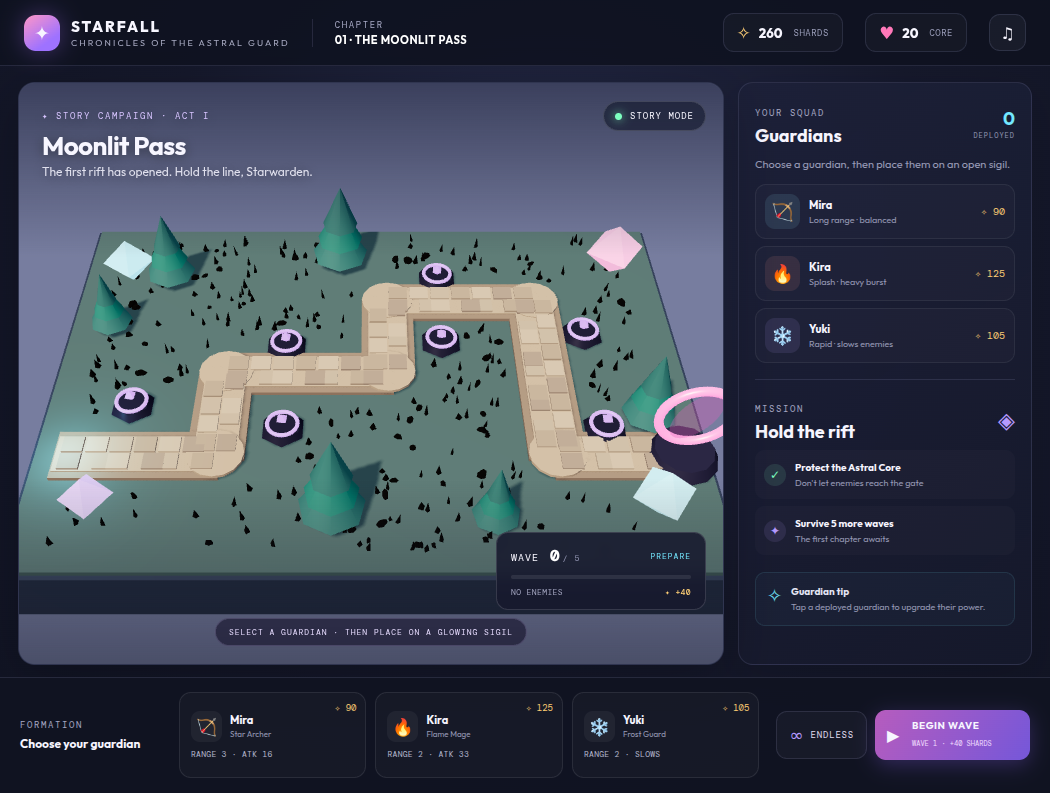
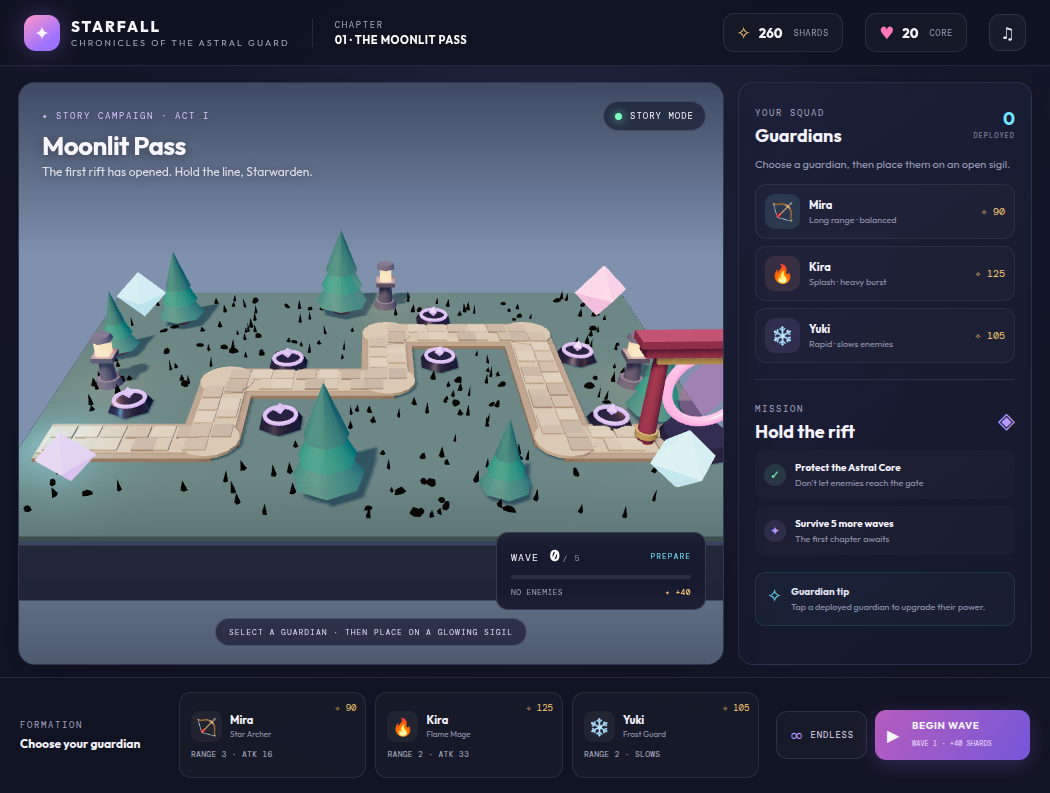
Publish static build for issue #3
Run: 41889467741
Attempt: 1
Generation: 10
Source: f91ac35d136565e8fe7699fcf8f47a618d134674

Changed region(s): [[0.0, 0.2421, 0.701, 0.7869], [0.6705, 0.6658, 0.701, 0.7264]]

diff --git a/game.js b/game.js
@@ -4,10 +4,10 @@ const units=[{id:'mira',name:'Mira',role:'Star Archer',emoji:'🏹',cost:90,colo
 const stages=[{name:'Moonlit Pass',desc:'The first rift has opened. Hold the line, Starwarden.',chapter:'01 · THE MOONLIT PASS'},{name:'Sakura Crossing',desc:'A crimson tide spills through the shrine gates.',chapter:'02 · SAKURA CROSSING'},{name:'Celestial Ruins',desc:'Ancient stars awaken beneath the broken spires.',chapter:'03 · CELESTIAL RUINS'}];
 const route=[[0,5.6],[2.5,5.6],[2.5,3.8],[5.3,3.8],[5.3,2],[8,2],[8,5.6],[10,5.6]], slots=[[1,4.55],[3.55,5.05],[3.5,3.15],[6.25,3.05],[6.25,1.35],[8.8,2.85],[8.85,5.05]];
 const state={gold:260,lives:20,stage:0,wave:0,mode:'story',selected:null,towers:[],enemies:[],shots:[],particles:[],running:false,spawn:0,toSpawn:0,spawnTimer:0,elapsed:0,speed:1,gameOver:false};
-const scene=new THREE.Scene();scene.background=new THREE.Color('#777d9f');scene.fog=new THREE.Fog('#777d9f',19,38);
-const camera=new THREE.PerspectiveCamera(34,1,.1,100);camera.position.set(5,12.2,15);camera.lookAt(5,.1,3.8);
-const renderer=new THREE.WebGLRenderer({canvas,antialias:true,alpha:false,powerPreference:'high-performance'});renderer.setPixelRatio(Math.min(devicePixelRatio||1,1.7));renderer.shadowMap.enabled=true;renderer.shadowMap.type=THREE.PCFSoftShadowMap;renderer.outputColorSpace=THREE.SRGBColorSpace;renderer.toneMapping=THREE.ACESFilmicToneMapping;renderer.toneMappingExposure=1.15;
-scene.add(new THREE.HemisphereLight('#dceaff','#4c426d',1.65));const sun=new THREE.DirectionalLight('#fff0d6',2.5);sun.position.set(-5,12,7);sun.castShadow=true;sun.shadow.mapSize.set(1024,1024);sun.shadow.camera.left=-12;sun.shadow.camera.right=12;sun.shadow.camera.top=12;sun.shadow.camera.bottom=-12;scene.add(sun);
+const scene=new THREE.Scene();scene.background=new THREE.Color('#7f91ad');scene.fog=new THREE.Fog('#7f91ad',27,58);
+const camera=new THREE.PerspectiveCamera(39,1,.1,120);camera.position.set(5,10,19);camera.lookAt(5,.15,3.8);
+const renderer=new THREE.WebGLRenderer({canvas,antialias:true,alpha:false,powerPreference:'high-performance'});renderer.setPixelRatio(Math.min(devicePixelRatio||1,1.7));renderer.shadowMap.enabled=true;renderer.shadowMap.type=THREE.PCFSoftShadowMap;renderer.outputColorSpace=THREE.SRGBColorSpace;renderer.toneMapping=THREE.ACESFilmicToneMapping;renderer.toneMappingExposure=1.2;
+scene.add(new THREE.HemisphereLight('#d9e8ff','#344252',1.9));const sun=new THREE.DirectionalLight('#ffe3c3',2.8);sun.position.set(-5,12,7);sun.castShadow=true;sun.shadow.mapSize.set(1024,1024);sun.shadow.camera.left=-12;sun.shadow.camera.right=12;sun.shadow.camera.top=12;sun.shadow.camera.bottom=-12;scene.add(sun);const moonFill=new THREE.DirectionalLight('#9bbdff',.65);moonFill.position.set(11,7,-5);scene.add(moonFill);
 const mat=(color,roughness=.65,metalness=0,emissive=null)=>new THREE.MeshStandardMaterial({color,roughness,metalness,emissive:emissive||'#000000',emissiveIntensity:emissive?1.5:0});
 const mats={grass:mat('#536b69'),edge:mat('#384358'),road:mat('#9a836f'),road2:mat('#c5a98b'),gold:mat('#ffd985',.3,.55),white:mat('#fff4df'),dark:mat('#302d48'),leaf:mat('#4b9b89'),pink:mat('#fa85c0',.32,.1,'#ec499e'),cyan:mat('#74eaff',.28,.2,'#38dfff'),violet:mat('#b89aff',.3,.2,'#9b69ff')};
 const ground=new THREE.Mesh(new THREE.BoxGeometry(11,1,8),mats.edge);ground.position.set(5,-.52,3.8);ground.receiveShadow=true;scene.add(ground);
@@ -26,13 +26,17 @@ function tree(x,z,s=1){const g=new THREE.Group();cylinder(.13*s,.2*s,.55*s,mat('
 // Fine ground cover breaks up the board's toy-like flatness without taxing mobile GPUs.
 function routeGap(x,z){let best=99;for(let i=1;i<route.length;i++){const a=route[i-1],b=route[i],dx=b[0]-a[0],dz=b[1]-a[1],t=Math.max(0,Math.min(1,((x-a[0])*dx+(z-a[1])*dz)/(dx*dx+dz*dz)));best=Math.min(best,Math.hypot(x-a[0]-t*dx,z-a[1]-t*dz))}return best}
 let seed=741;const seeded=()=>{seed=(seed*1664525+1013904223)>>>0;return seed/4294967296};
-const grassGeo=new THREE.ConeGeometry(.045,.2,4),grassMat=new THREE.MeshStandardMaterial({color:'#fff',roughness:1,vertexColors:true});const grassCount=230,grass=new THREE.InstancedMesh(grassGeo,grassMat,grassCount),dummy=new THREE.Object3D(),bladeColors=['#718b68','#87966d','#a0a076','#617f72'];let placed=0,tries=0;
+const grassGeo=new THREE.ConeGeometry(.04,.16,4),grassMat=new THREE.MeshStandardMaterial({color:'#fff',roughness:1,vertexColors:true});const grassCount=150,grass=new THREE.InstancedMesh(grassGeo,grassMat,grassCount),dummy=new THREE.Object3D(),bladeColors=['#91aa7f','#a8b28a','#c1bb92','#7fa69a'];let placed=0,tries=0;
 while(placed<grassCount&&tries++<grassCount*12){const x=.15+seeded()*9.7,z=.15+seeded()*7.2;if(routeGap(x,z)<.69||slots.some(([sx,sz])=>Math.hypot(x-sx,z-sz)<.48))continue;dummy.position.set(x,.16,z);dummy.rotation.set(0,seeded()*Math.PI,seeded()*.18);dummy.scale.set(.65+seeded()*.8,.5+seeded()*1.1,.65+seeded()*.8);dummy.updateMatrix();grass.setMatrixAt(placed,dummy.matrix);grass.setColorAt(placed,new THREE.Color(bladeColors[Math.floor(seeded()*bladeColors.length)]));placed++}grass.count=placed;grass.instanceMatrix.needsUpdate=true;grass.castShadow=false;scene.add(grass);
 const pebbleGeo=new THREE.DodecahedronGeometry(.09,0),pebbleMat=new THREE.MeshStandardMaterial({color:'#fff',roughness:1,vertexColors:true}),pebbles=new THREE.InstancedMesh(pebbleGeo,pebbleMat,54),pebbleColors=['#777c78','#9b9080','#666e70'];for(let i=0;i<54;i++){let x,z;do{x=.2+seeded()*9.6;z=.2+seeded()*7.1}while(routeGap(x,z)<.69||slots.some(([sx,sz])=>Math.hypot(x-sx,z-sz)<.5));dummy.position.set(x,.075,z);dummy.rotation.set(seeded(),seeded()*Math.PI,seeded());dummy.scale.set(.4+seeded()*.9,.2+seeded()*.45,.45+seeded()*.8);dummy.updateMatrix();pebbles.setMatrixAt(i,dummy.matrix);pebbles.setColorAt(i,new THREE.Color(pebbleColors[i%3]))}pebbles.castShadow=false;scene.add(pebbles);
-// A luminous shrine frames the exit portal.
+// A luminous torii shrine frames the exit portal and gives the route a clear landmark.
 const gate=new THREE.Group();gate.position.set(10,.12,5.6);scene.add(gate);const gateMat=new THREE.MeshStandardMaterial({color:'#ff9ccf',emissive:'#ff3b9c',emissiveIntensity:2,metalness:.5,roughness:.22});
-const ring=new THREE.Mesh(new THREE.TorusGeometry(.58,.075,10,36),gateMat);ring.position.y=.95;gate.add(ring);const portal=new THREE.Mesh(new THREE.CircleGeometry(.48,32),new THREE.MeshBasicMaterial({color:'#d94ba7',transparent:true,opacity:.32,side:THREE.DoubleSide}));portal.position.set(0,.95,0);portal.rotation.y=.35;gate.add(portal);cylinder(.48,.58,.2,mats.dark,10,.18,5.6);
+const torii=mat('#a94f68',.48,.22),toriiGold=mat('#f3c477',.32,.42);for(const side of [-1,1]){cylinder(.105,.14,1.58,torii,side*.77,.79,0,gate,10);cylinder(.17,.17,.1,toriiGold,side*.77,.18,0,gate,10)}box(2.12,.2,.3,torii,0,1.66,0,gate);box(1.72,.1,.24,toriiGold,0,1.49,0,gate);box(2.32,.12,.38,torii,0,1.79,0,gate);
+const ring=new THREE.Mesh(new THREE.TorusGeometry(.58,.075,10,36),gateMat);ring.position.y=.95;gate.add(ring);const portal=new THREE.Mesh(new THREE.CircleGeometry(.48,32),new THREE.MeshBasicMaterial({color:'#d94ba7',transparent:true,opacity:.32,side:THREE.DoubleSide}));portal.position.set(0,.95,0);portal.rotation.y=.35;gate.add(portal);cylinder(.48,.58,.2,mats.dark,0,.08,0,gate);
 const spawnGlow=new THREE.PointLight('#73eaff',2.2,3);spawnGlow.position.set(.1,.8,5.6);scene.add(spawnGlow);
+// Warm stone lanterns add scale and a second lighting accent without crowding the sigils.
+function lantern(x,z){const g=new THREE.Group();g.position.set(x,.04,z);scene.add(g);const stone=mat('#696478',.82,.08),warm=new THREE.MeshStandardMaterial({color:'#ffcf8a',emissive:'#ff9e56',emissiveIntensity:1.6,roughness:.35});cylinder(.2,.25,.16,stone,0,.08,0,g,8);cylinder(.12,.15,.4,stone,0,.34,0,g,8);box(.38,.09,.38,stone,0,.58,0,g);box(.23,.27,.23,warm,0,.76,0,g);cylinder(.16,.2,.09,stone,0,.94,0,g,6);const light=new THREE.PointLight('#ffad69',.55,2.1);light.position.set(0,.78,0);g.add(light)}
+lantern(.42,3.75);lantern(9.55,3.75);lantern(5.3,.55);
 const slotObjects=[];const slotMat=new THREE.MeshStandardMaterial({color:'#9b83d9',emissive:'#a379ff',emissiveIntensity:1.3,metalness:.55,roughness:.25});
 slots.forEach(([x,z],i)=>{const g=new THREE.Group();g.position.set(x,.12,z);scene.add(g);const base=new THREE.Mesh(new THREE.CylinderGeometry(.31,.38,.12,6),mat('#383650',.35,.35));base.position.y=.04;base.castShadow=true;g.add(base);const halo=new THREE.Mesh(new THREE.TorusGeometry(.25,.035,8,24),slotMat.clone());halo.rotation.x=Math.PI/2;halo.position.y=.13;g.add(halo);const gem=new THREE.Mesh(new THREE.OctahedronGeometry(.11),slotMat.clone());gem.position.y=.23;g.add(gem);slotObjects.push({group:g,halo,gem})});
 function makeCharacter(id,color,enemy=false){const root=new THREE.Group(), rig=new THREE.Group();root.add(rig);const glow=mat(color,.35,.15,color), skin=mat(enemy?'#dca9bd':'#f5d6c9'), hair=mat(enemy?'#512746':id==='kira'?'#9c455d':id==='yuki'?'#45417e':'#433557'), cloth=mat(enemy?'#642d66':id==='kira'?'#b84d59':id==='yuki'?'#534b9b':'#397c93',.72,.04), trim=mat('#f2d284',.34,.4), leather=mat('#352d43',.82), eyeWhite=mat('#fff4e8',.32), iris=mat(enemy?'#ff648f':id==='kira'?'#ff986e':id==='yuki'?'#b5a7ff':'#76eaff',.28,.1,color);
@@ -84,7 +88,7 @@ function onCanvasPointer(event){const rect=canvas.getBoundingClientRect();pointe
  for(const t of state.towers){const rig=towerMeshes.get(t);if(rig){const hits=raycaster.intersectObject(rig.root,true);if(hits.length){state.selected=null;renderCards();upgrade(t);return}}}
  if(!state.selected){const onTower=state.towers.find(t=>{const p=new THREE.Vector3(t.x,.8,t.z).project(camera);return Math.hypot((p.x-pointer.x)*rect.width/2,(p.y-pointer.y)*rect.height/2)<25});if(onTower){upgrade(onTower);return}}
  if(!state.selected)return;if(!raycaster.ray.intersectPlane(groundPlane,hitPoint))return;let best=-1,bestD=.62;slots.forEach(([x,z],i)=>{const d=Math.hypot(x-hitPoint.x,z-hitPoint.z);if(d<bestD){bestD=d;best=i}});if(best<0){toast('Choose one of the glowing sigils.');return}if(state.towers.some(t=>t.slot===best)){toast('That sigil is already occupied.');return}const unit=units.find(u=>u.id===state.selected);if(state.gold<unit.cost){toast('Not enough shards.');return}state.gold-=unit.cost;const [x,z]=slots[best],tower={...unit,x,z,slot:best,level:1,cool:.2};state.towers.push(tower);makeTower(tower);state.selected=null;renderCards();$('#hint').textContent='SELECT A GUARDIAN · THEN PLACE ON A GLOWING SIGIL';updateUI();toast(`${unit.name} deployed!`)}
-function resize(){const rect=canvas.getBoundingClientRect();if(!rect.width||!rect.height)return;camera.aspect=rect.width/rect.height;const portrait=camera.aspect<.78;camera.fov=portrait?50:34;if(portrait)camera.position.set(11,16.2,3.8);else camera.position.set(5,12.2,15);camera.lookAt(5,.1,3.8);camera.updateProjectionMatrix();renderer.setSize(rect.width,rect.height,false)}
+function resize(){const rect=canvas.getBoundingClientRect();if(!rect.width||!rect.height)return;camera.aspect=rect.width/rect.height;const portrait=camera.aspect<.78;camera.fov=portrait?58:40;if(portrait)camera.position.set(5,15,17.5);else camera.position.set(5,7.2,15.8);camera.lookAt(5,.3,3.8);camera.updateProjectionMatrix();renderer.setSize(rect.width,rect.height,false)}
 let last=0;function frame(now){requestAnimationFrame(frame);const dt=Math.min(.05,(now-last)/1000||0);last=now;update(dt);slotObjects.forEach((s,i)=>{const active=!!state.selected&&!state.towers.some(t=>t.slot===i);s.halo.material.opacity=active?.9:.34+Math.sin(state.elapsed*2+i)*.12;s.gem.rotation.y=state.elapsed*(active?2:1);s.gem.position.y=.23+Math.sin(state.elapsed*2+i)*.025});renderer.render(scene,camera)}
 $('#launchBtn').addEventListener('click',beginWave);$('#modeBtn').addEventListener('click',()=>{if(state.running){toast('Finish the current wave before changing modes.');return}state.mode=state.mode==='story'?'endless':'story';state.wave=0;$('#waveNum').textContent='0';$('#waveStatus').textContent='PREPARE';$('#launchBtn b').textContent='BEGIN WAVE';$('#launchSub').textContent='WAVE 1 · +40 SHARDS';updateUI();toast(state.mode==='endless'?'Endless mode selected':'Story campaign selected')});
 $('#modalClose').addEventListener('click',hideModal);$('#modal').addEventListener('click',e=>{if(e.target===$('#modal'))hideModal()});$('#soundBtn').addEventListener('click',e=>{e.currentTarget.classList.toggle('muted');toast(e.currentTarget.classList.contains('muted')?'Sound off':'Sound on')});canvas.addEventListener('pointerup',onCanvasPointer);window.addEventListener('resize',resize);new ResizeObserver(resize).observe(canvas.parentElement);
